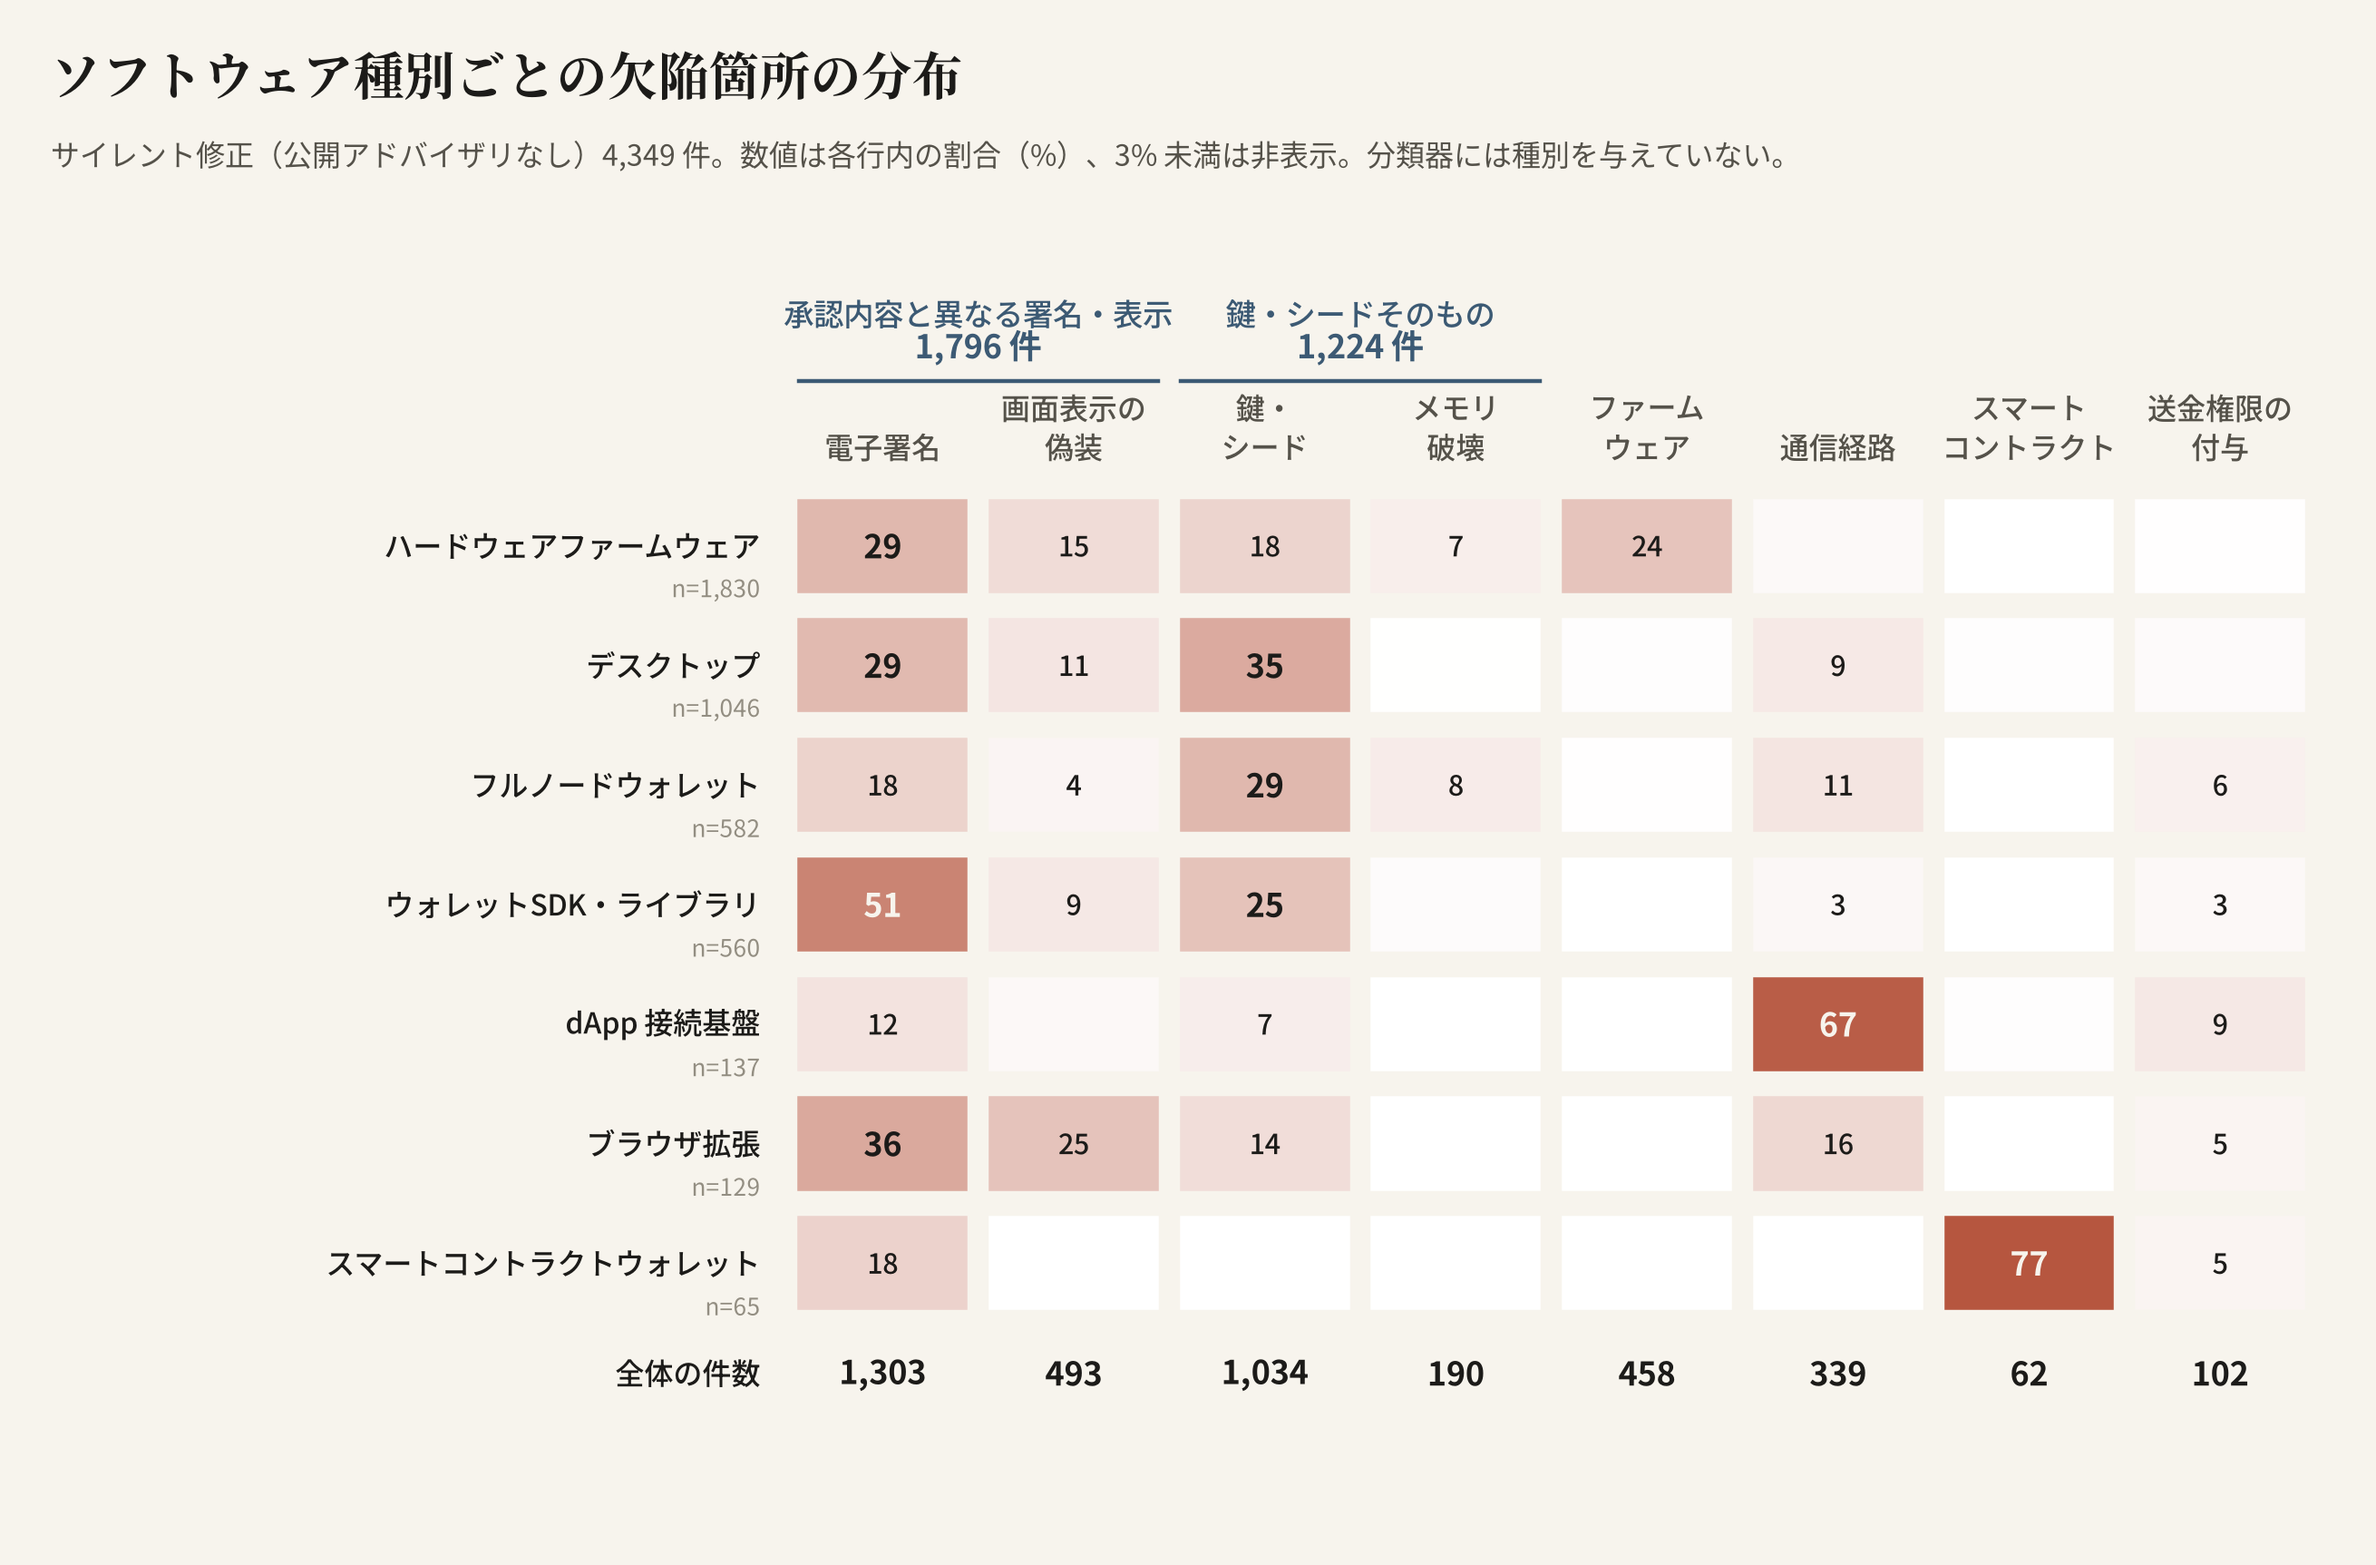
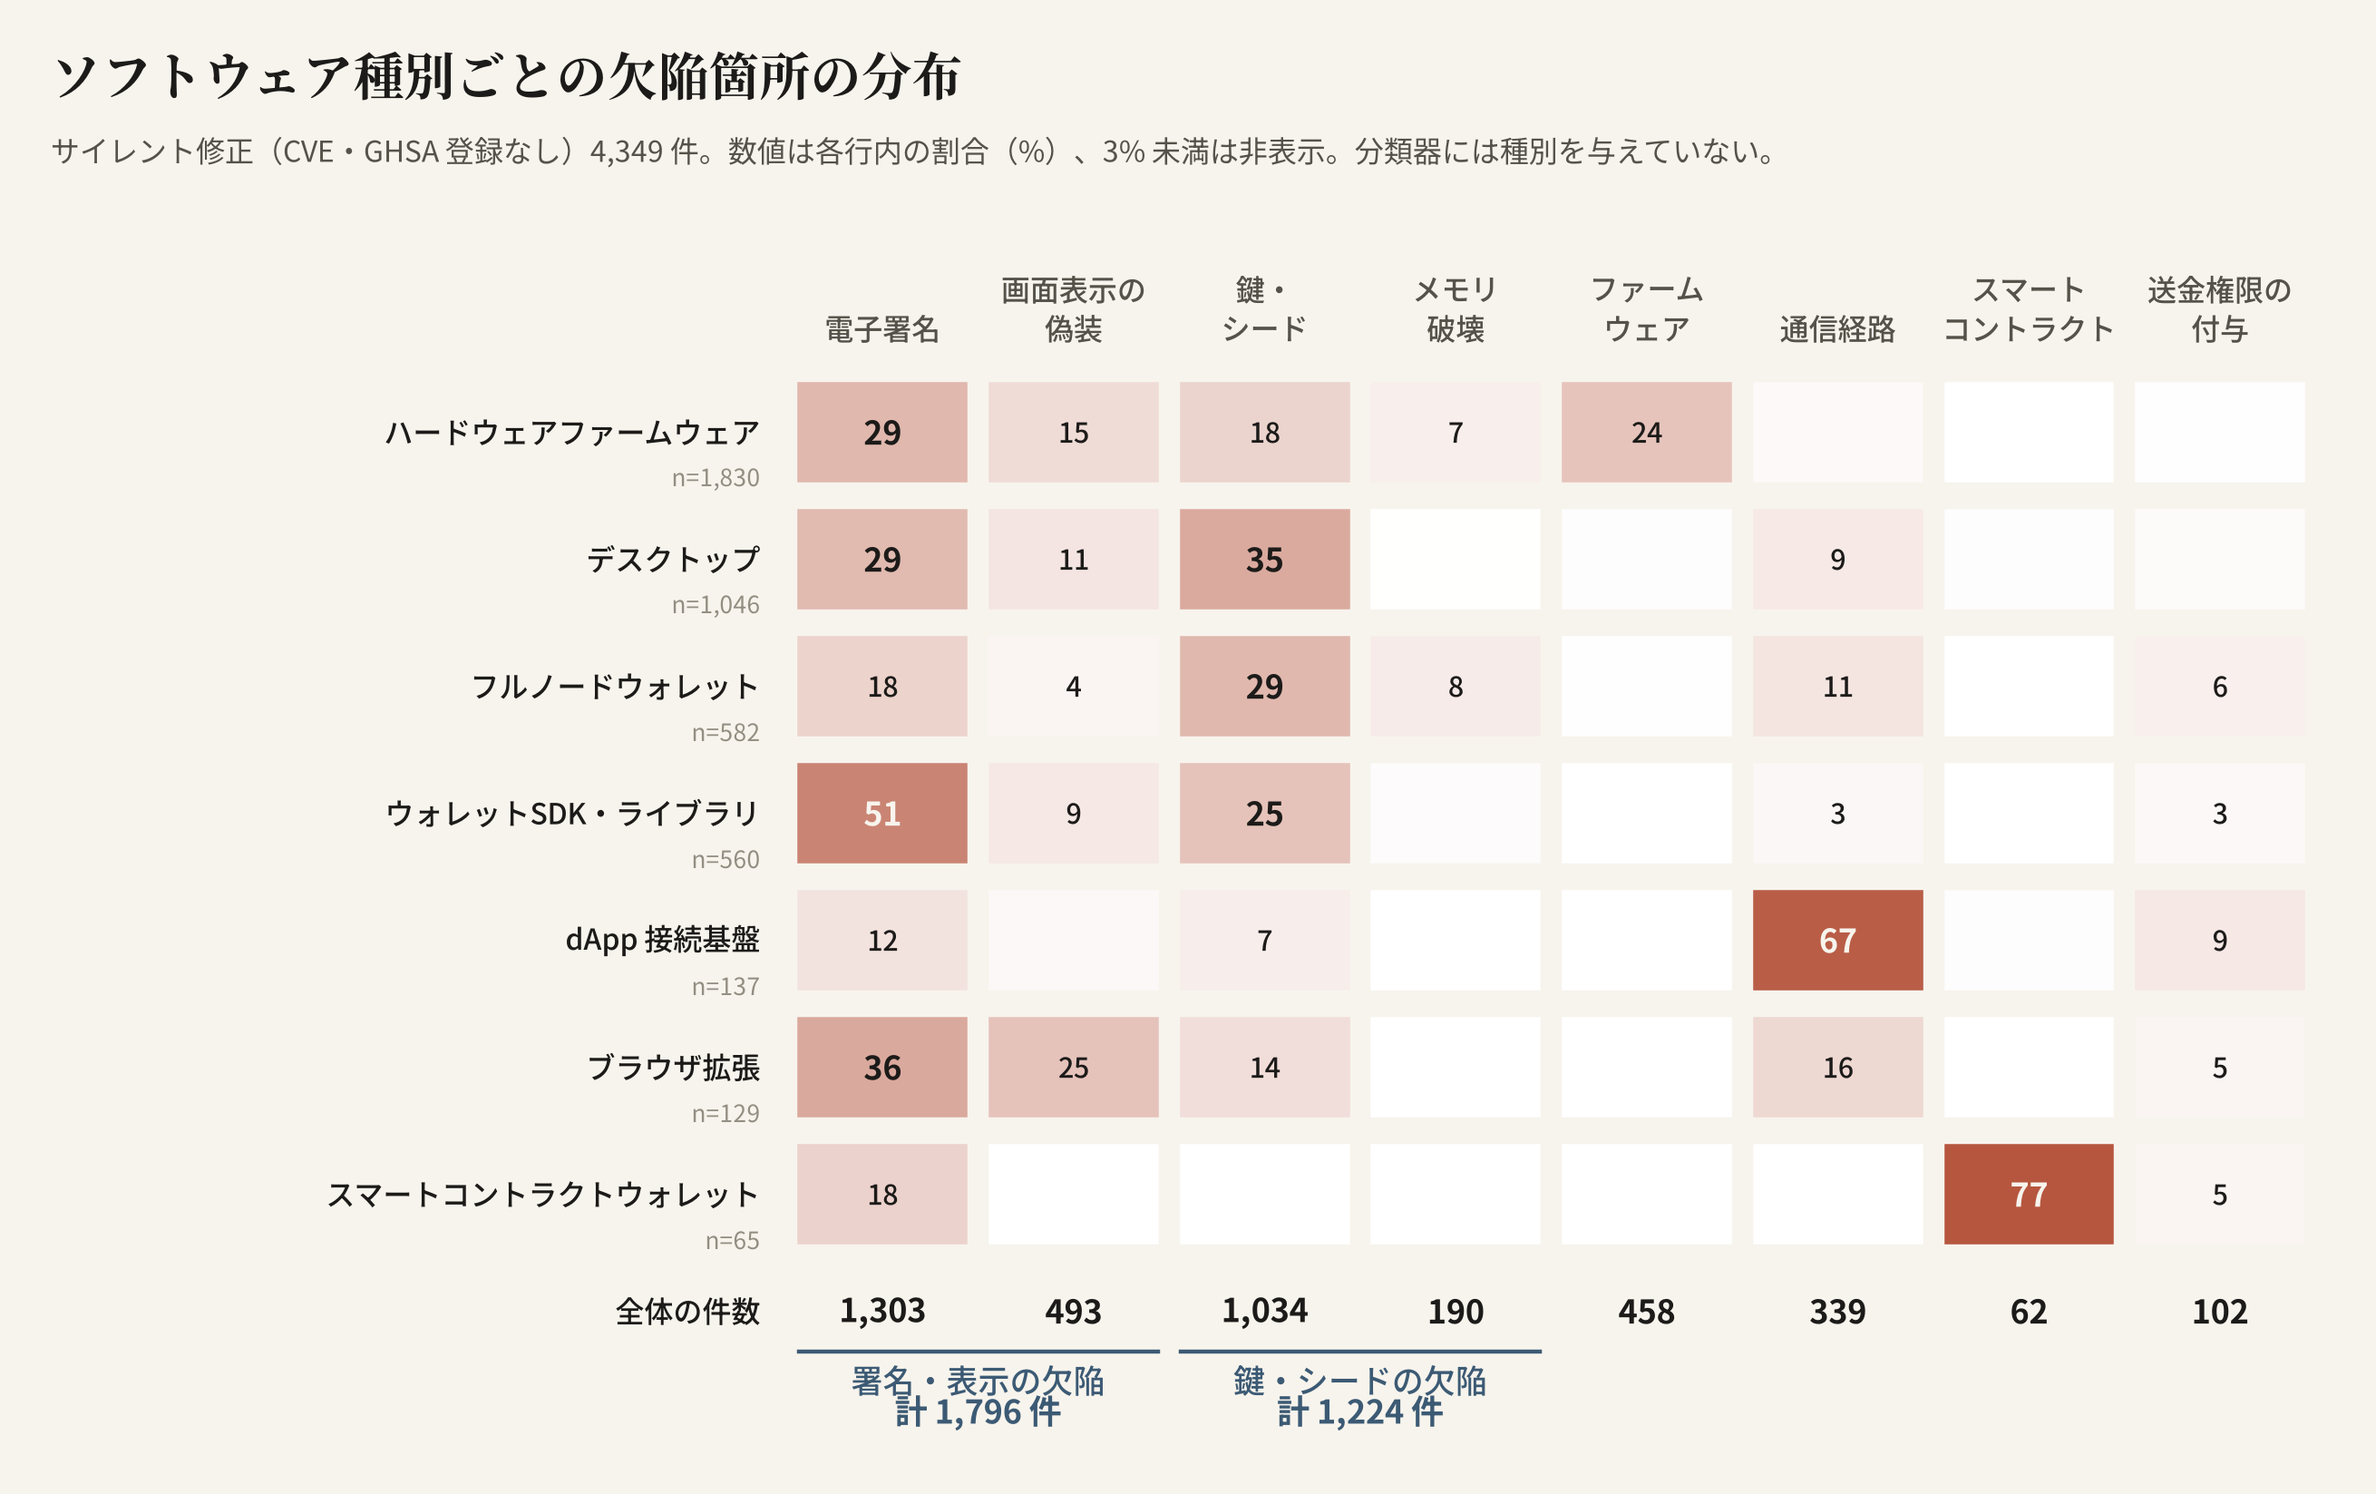
Fix fig1's arrow, move fig3's subtotals down, shorten the terms
Three layout changes, each rendered and read before committing.

fig1: the callout sat in the upper right and its arrow curved back across the
row to the sliver it described, striking through the "1,325". Folding the
definition onto the heading frees the line above the bar, so the callout now
sits directly over the sliver and the arrow is a short downward tick with
nothing between the two.

fig3: the two group subtotals were bracketed above the matrix while the
per-column totals sat below it, which read as two different summaries. Both
kinds of total are at the bottom now. They needed two lines each — a
two-column bracket is 2.1in and the label on one line is 2.8in, so the pair
collided over the middle column on the first try.

Terms: 公開修正 / サイレント修正, four characters each so the pair reads as one
axis, replacing 公開アドバイザリあり / 公開アドバイザリなし. The definition still
rides along on first appearance, because every fix here IS a public commit —
公開 refers to the advisory record, not the code, and without the parenthetical
サイレント修正 could be read as "the change was hidden".

diff --git a/scripts/poster_figures.py b/scripts/poster_figures.py
@@ -61,10 +61,15 @@ N_REPO = SIL["wallet"].nunique()
 # time it appears in each figure; the alternative wordings this file used to mix
 # ("登録なく出荷された修正", "CVE・GHSA に記録のない") made three figures look
 # like they described three populations.
+# 公開修正 / サイレント修正: symmetric, four characters each, and the pair reads
+# as one axis. The definition always rides along on first appearance, because
+# every fix in this corpus IS a public commit — "公開" here means the advisory
+# record is public, not the code, and without the parenthetical a reader could
+# take サイレント修正 to mean the change was hidden.
 T_SILENT = "サイレント修正"
-T_SILENT_DEF = "公開アドバイザリなし"
-T_DISCLOSED = "公開アドバイザリあり"
-T_DISCLOSED_DEF = "CVE・GHSA 番号が付与されているもの"
+T_SILENT_DEF = "CVE・GHSA 登録なし"
+T_DISCLOSED = "公開修正"
+T_DISCLOSED_DEF = "CVE・GHSA 登録あり"
 
 _sp = ilu.spec_from_file_location("w", ROOT / "collection/wallets.py")
 _w = ilu.module_from_spec(_sp); _sp.loader.exec_module(_w)
@@ -141,9 +146,12 @@ def fig_ratio(out="fig1_ratio.png"):
     # coverage, and still has no GitHub advisory — it counts as silent here and
     # was in no sense undisclosed.
     # advisory rows, segmented
-    S.t(ax, 0, -0.10, T_DISCLOSED, fp="bold", size=15.5,
-        color=S.INK, va="center")
-    S.t(ax, 0, -0.37, T_DISCLOSED_DEF, fp="reg", size=11,
+    # The definition rides on the heading instead of taking its own line, which
+    # frees the line above the bar for the callout — see below.
+    S.t(ax, 0, -0.10, T_DISCLOSED, fp="bold", size=15.5, color=S.INK, va="center")
+    # 公開修正 is 4 characters at 15.5pt = 0.86in, and this axis runs W*0.109 per
+    # inch, so the definition has to start beyond W*0.094 or it lands on the word.
+    S.t(ax, W * 0.108, -0.105, f"（{T_DISCLOSED_DEF}）", fp="reg", size=11,
         color=S.MUTED, va="center")
     x = 0.0
     for n, c in ((conf, S.RUST), (dep, S.SLATE), (rest, S.lighten(S.SLATE, 0.60))):
@@ -152,15 +160,15 @@ def fig_ratio(out="fig1_ratio.png"):
     S.t(ax, x + W * 0.015, -0.68, f"{len(ADV):,}", fp="black", size=30,
         color=S.SOFT, va="center")
 
-    # 51 of 4,608-scale is a sliver, so the callout carries it. Anchored right of
-    # the bar's own total so it cannot collide with the legend below.
-    # 51 against a 4,608 scale is a sliver, so the callout carries it. Parked in the
-    # empty upper-right of this row so it clears both the row total and the legend,
-    # with the arrow approaching from the right rather than across the subtitle.
-    S.t(ax, W * 0.56, -0.16, f"うち 資産の保管・送金処理の欠陥\n{conf} 件（4%）",
-        fp="bold", size=15.5, color=S.RUST, va="center", linespacing=1.5)
-    S.arrow(ax, (W * 0.545, -0.34), (conf * 2.2, -0.60),
-            color=S.RUST_L, lw=1.7, ms=12, rad=-0.26)
+    # 51 on a 4,349 scale is a sliver, so a callout has to carry it. Sitting it in
+    # the upper right meant a long curved arrow back to the left edge, and that
+    # arrow crossed the row's own total: the "1,325" had a line through it. The
+    # callout now sits directly ABOVE the sliver it describes, so the arrow is a
+    # short downward tick with nothing between the two.
+    S.t(ax, 0, -0.375, f"うち 資産の保管・送金処理の欠陥は {conf} 件（4%）",
+        fp="bold", size=14.5, color=S.RUST, va="center")
+    S.arrow(ax, (conf * 0.9, -0.455), (conf * 0.9, -0.545),
+            color=S.RUST_L, lw=1.7, ms=11, rad=0.0)
 
     for i, (c, lab, n) in enumerate(((S.RUST, "資産の保管・送金処理の欠陥", conf),
                                      (S.SLATE, "外部ライブラリの脆弱性対応", dep),
@@ -173,7 +181,7 @@ def fig_ratio(out="fig1_ratio.png"):
 
     fig.subplots_adjust(top=0.775, bottom=0.03, left=0.045, right=0.985)
     S.title_block(fig,
-                  f"{T_DISCLOSED}の修正と、{T_SILENT}の件数",
+                  f"{T_DISCLOSED}と{T_SILENT}の件数",
                   f"暗号資産ウォレット {N_REPO} 製品の全変更履歴を対象に、"
                   "各コミットの差分を 1 件ずつ判定した結果。",
                   x=0.045, y=0.965)
@@ -269,7 +277,7 @@ def fig_compare(out="fig2_compare.png"):
     fig.subplots_adjust(top=1 - 1.42 / (0.92 * n + 2.7), bottom=0.03,
                         left=0.035, right=0.985)
     S.title_block(fig,
-                  f"{T_DISCLOSED}の修正と{T_SILENT}の、原因別の内訳",
+                  f"{T_DISCLOSED}と{T_SILENT}の、原因別の内訳",
                   f"上から順に、{T_DISCLOSED}側に偏る原因から{T_SILENT}側に偏る原因へ。",
                   x=0.035, y=1 - 0.34 / (0.92 * n + 2.7))
     return S.save(fig, out)
@@ -299,8 +307,8 @@ def fig_heatmap(out="fig3_stack.png"):
 
     nr, nc = ct.shape
     # +1 row of totals below the matrix, +1 band of group brackets above it
-    fig, ax = S.new(13.2, 0.78 * nr + 3.1,
-                    xlim=(-2.35, nc + 0.05), ylim=(-1.60, nr + 1.78))
+    fig, ax = S.new(13.2, 0.78 * nr + 2.7,
+                    xlim=(-2.35, nc + 0.05), ylim=(-1.46, nr + 0.82))
     for i, cat in enumerate(order_c):
         y = nr - 1 - i
         for j, cls in enumerate(order_v):
@@ -328,29 +336,29 @@ def fig_heatmap(out="fig3_stack.png"):
     S.t(ax, -0.14, -0.42, "全体の件数", fp="med", size=11.5, color=S.INK,
         ha="right", va="center")
 
-    # Group brackets: the fig4 claim, drawn rather than stated. Two lines, because
-    # a bracket spans two columns and one line of this text is twice that wide —
-    # side by side the two labels collided over the middle column.
-    for x0, x1, lab in ((0, 2, "承認内容と異なる署名・表示"),
-                        (2, 4, "鍵・シードそのもの")):
+    # Group subtotals go UNDER the per-column totals, not above the matrix: the two
+    # kinds of total belong together, and reading one at the top and one at the
+    # bottom made the figure look like it had two different summaries. Short labels
+    # so each fits on one line inside its two-column bracket.
+    for x0, x1, lab in ((0, 2, "署名・表示の欠陥"), (2, 4, "鍵・シードの欠陥")):
         tot = int(totals[["signing", "ui_deception"]].sum() if x0 == 0
                   else totals[["key_material", "memory"]].sum())
-        # The line sits well clear of the count: at a 0.11-unit gap it ran through
-        # the numerals' descenders.
-        ax.plot([x0 + 0.06, x1 - 0.06], [nr + 0.88, nr + 0.88], color=S.SLATE,
+        ax.plot([x0 + 0.06, x1 - 0.06], [-0.74, -0.74], color=S.SLATE,
                 lw=1.6, zorder=3)
-        S.t(ax, (x0 + x1) / 2, nr + 1.44, lab, fp="med", size=12, color=S.SLATE,
+        # Two lines: a two-column bracket is 2.1in wide and this label on one line
+        # is 2.8in, so side by side the pair collided over the middle column.
+        S.t(ax, (x0 + x1) / 2, -0.97, lab, fp="med", size=12.5, color=S.SLATE,
             ha="center", va="center")
-        S.t(ax, (x0 + x1) / 2, nr + 1.16, f"{tot:,} 件", fp="bold", size=13,
+        S.t(ax, (x0 + x1) / 2, -1.22, f"計 {tot:,} 件", fp="bold", size=13,
             color=S.SLATE, ha="center", va="center")
 
-    fig.subplots_adjust(top=1 - 1.55 / (0.78 * nr + 3.1), bottom=0.02,
+    fig.subplots_adjust(top=1 - 1.50 / (0.78 * nr + 2.7), bottom=0.02,
                         left=0.155, right=0.985)
     S.title_block(fig,
                   "ソフトウェア種別ごとの欠陥箇所の分布",
                   f"{T_SILENT}（{T_SILENT_DEF}）{len(SIL):,} 件。数値は各行内の割合（%）、"
                   f"3% 未満は非表示。分類器には種別を与えていない。",
-                  x=0.035, y=1 - 0.32 / (0.78 * nr + 3.1))
+                  x=0.035, y=1 - 0.32 / (0.78 * nr + 2.7))
     return S.save(fig, out)
 
 

diff --git a/README.md b/README.md
@@ -561,11 +561,15 @@ script so three figures cannot end up naming three populations:
 
 | | |
 |---|---|
-| **サイレント修正**（公開アドバイザリなし） | the silent side |
-| **公開アドバイザリあり**（CVE・GHSA 番号が付与されているもの） | the disclosed side |
+| **サイレント修正**（CVE・GHSA 登録なし） | the silent side |
+| **公開修正**（CVE・GHSA 登録あり） | the disclosed side |
 
-Deliberately not 公表されずに (undisclosed): the corpus sees whether a *record* exists, and
-BTCPay's 2FA bypass was announced loudly while still absent from every advisory feed.
+Four characters each, so the pair reads as one axis. The definition always rides along on
+first appearance, for a reason: every fix in this corpus **is** a public commit. 公開 here
+means the advisory record is public, not the code, and without the parenthetical a reader
+could take サイレント修正 to mean the change itself was hidden. Deliberately not 公表されず
+(undisclosed) either — BTCPay's 2FA bypass was announced loudly and is still absent from
+every advisory feed.
 Mechanism and column names use the vocabulary a corporate security function already has —
 入力値の検証不備, 権限チェックの欠落, 鍵の生成・保管の不備, 画面表示の偽装, 送金権限の付与,
 外部ライブラリの脆弱性対応 — rather than the taxonomy's wallet-internal English. Every
